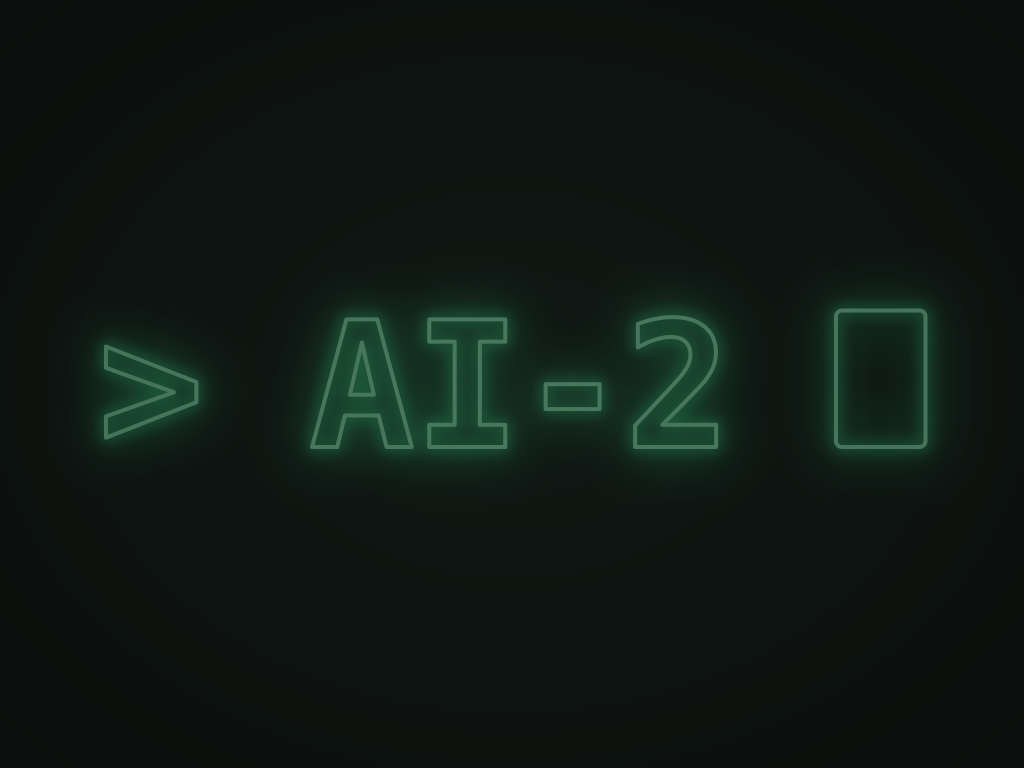
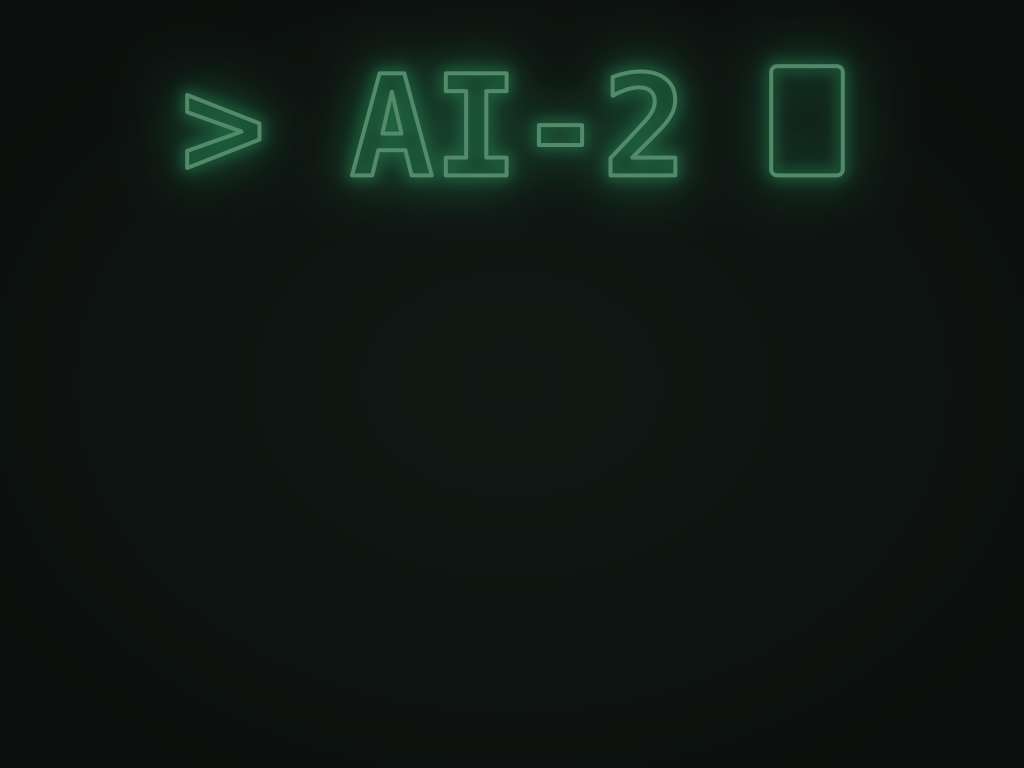
GRUB theme: mark above the menu panel (Rafael's pick), panel 70% opaque

diff --git a/branding/grub-theme/gen-background.py b/branding/grub-theme/gen-background.py
@@ -6,17 +6,19 @@ stands alone.
 
   gen-background.py OUT.svg [dim] [y_center] [font_px]
 
-dim       overall brightness of the mark, 0-1 (default 0.45: "way less bright"
-          than the Artix neon so the menu text stays readable)
-y_center  vertical center of the mark in the 1024x768 canvas (default 384)
-font_px   font size in px (default 175, mark spans ~85% of the width)
+dim       overall brightness of the mark, 0-1 (default 0.55, well below the
+          Artix neon)
+y_center  vertical center of the mark in the 1024x768 canvas (default 125:
+          the mark sits ABOVE the menu panel, fully visible, chosen by Rafael
+          2026-08-16 over the ghosted-behind-the-menu variant)
+font_px   font size in px (default 140)
 """
 import sys
 
 out = sys.argv[1]
-dim = float(sys.argv[2]) if len(sys.argv) > 2 else 0.45
-yc = int(sys.argv[3]) if len(sys.argv) > 3 else 384
-fs = int(sys.argv[4]) if len(sys.argv) > 4 else 175
+dim = float(sys.argv[2]) if len(sys.argv) > 2 else 0.55
+yc = int(sys.argv[3]) if len(sys.argv) > 3 else 125
+fs = int(sys.argv[4]) if len(sys.argv) > 4 else 140
 W, H = 1024, 768                       # GRUB_GFXMODE used by Artix/AI-2 (ISO + installed)
 cw = fs * 0.602                        # DejaVu Sans Mono advance width
 text = "> AI-2 "
